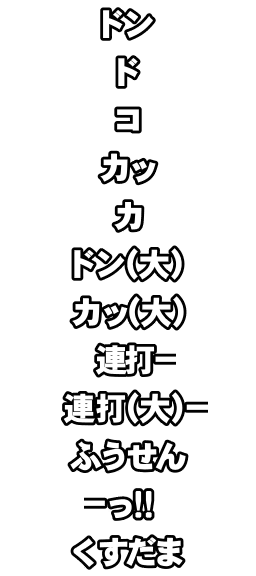
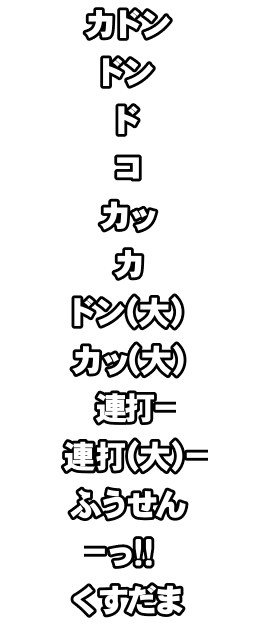
feat(play): sync OurTaikoPlay's Kadon (G) note, TJAParser v0.6.1
From OurTaikoPlay a7b65ab and dc98eda: Kadon judging (both lanes; the other colour within 50 ms judges at the first hit), the input mutex letting that colour through in the same frame, score and gauge counting, big-note effects, autoplay striking don and ka. SyncPlayPresentation.ApplyKadon copies the purple note and the moji カドン and slices them through the sprite data provider; PracticeScene's arrays reach NoteKind.Kadon (16) and NoteMoji.Kadon (12). KadonTests as in OurTaikoPlay, without timing offsets (not recorded here).

Changed region(s): [[0.2188, 0.0, 0.8125, 1.0]]

diff --git a/Assets/OurTaiko/Editor/SyncPlayPresentation.cs b/Assets/OurTaiko/Editor/SyncPlayPresentation.cs
@@ -470,6 +470,70 @@ namespace OurTaiko.Editor
             rect.offsetMin = rect.offsetMax = Vector2.zero;
         }
 
+        // The Kadon (G), OurTaikoPlay a7b65ab and dc98eda: its purple note and the moji カドン. The images
+        // are copied from OurTaikoPlay; the new slices stand where the existing ones leave room, so
+        // none of those move. noteSprites stays indexed by NoteKind (Kadon is 16).
+        [MenuItem("OurTaikoView/Sync Kadon")]
+        public static void ApplyKadon()
+        {
+            if (EditorApplication.isPlaying) throw new InvalidOperationException("Exit Play mode first.");
+            for (int i = 0; i < EditorSceneManager.sceneCount; i++)
+                if (EditorSceneManager.GetSceneAt(i).isDirty) throw new InvalidOperationException("Save current scene edits first.");
+            const string atlas = "Assets/OurTaiko/Art/game/notes/notes_atlas.png", moji = "Assets/OurTaiko/Art/game/notes/moji.png";
+            foreach (string image in new[] { atlas, moji })
+            {
+                FileUtil.ReplaceFile(Path.GetFullPath("../OurTaikoPlay/" + image), image);
+                AssetDatabase.ImportAsset(image, ImportAssetOptions.ForceSynchronousImport);
+            }
+            AddSlice(atlas, "Note16", new Rect(384, 1728, 192, 192));
+            AddSlice(atlas, "Note16Alternate", new Rect(384, 1536, 192, 192));
+            AddSlice(moji, "Moji12", new Rect(0, 576, 256, 48));
+            var notes = AssetDatabase.LoadAllAssetsAtPath(atlas).OfType<Sprite>().ToDictionary(s => s.name);
+            var texts = AssetDatabase.LoadAllAssetsAtPath(moji).OfType<Sprite>().ToDictionary(s => s.name);
+            var setup = EditorSceneManager.GetSceneManagerSetup();
+            try
+            {
+                var scene = EditorSceneManager.OpenScene("Assets/Scenes/PracticeScene.unity");
+                var play = UnityEngine.Object.FindFirstObjectByType<PlayScene>();
+                play.noteSprites = WithSprite(play.noteSprites, (int)NoteKind.Kadon, notes["Note16"]);
+                play.alternateNoteSprites = WithSprite(play.alternateNoteSprites, (int)NoteKind.Kadon, notes["Note16Alternate"]);
+                play.mojiSprites = WithSprite(play.mojiSprites, NoteMoji.Kadon, texts["Moji12"]);
+                EditorUtility.SetDirty(play);
+                EditorSceneManager.MarkSceneDirty(scene);
+                EditorSceneManager.SaveScene(scene);
+                AssetDatabase.SaveAssets();
+            }
+            finally { if (setup.Any(s => s.isLoaded && s.isActive)) EditorSceneManager.RestoreSceneManagerSetup(setup); }
+        }
+
+        // Sets one entry, growing the array with empty entries up to it.
+        static Sprite[] WithSprite(Sprite[] sprites, int index, Sprite sprite)
+        {
+            var grown = new Sprite[Math.Max(sprites.Length, index + 1)];
+            Array.Copy(sprites, grown, sprites.Length);
+            grown[index] = sprite;
+            return grown;
+        }
+
+        // Adds a centred slice unless the sheet has one of that name.
+        static void AddSlice(string path, string name, Rect rect)
+        {
+            var importer = AssetImporter.GetAtPath(path);
+            var factory = new SpriteDataProviderFactories();
+            factory.Init();
+            var provider = factory.GetSpriteEditorDataProviderFromObject(importer);
+            if (provider == null) throw new InvalidOperationException("Sprite data provider unavailable.");
+            provider.InitSpriteEditorDataProvider();
+            var rects = provider.GetSpriteRects();
+            if (rects.Any(r => r.name == name)) return;
+            var slice = new SpriteRect { name = name, rect = rect, alignment = SpriteAlignment.Center, pivot = new Vector2(0.5f, 0.5f), spriteID = GUID.Generate() };
+            provider.SetSpriteRects(rects.Append(slice).ToArray());
+            var names = provider.GetDataProvider<ISpriteNameFileIdDataProvider>();
+            names?.SetNameFileIdPairs(names.GetNameFileIdPairs().Append(new SpriteNameFileIdPair(name, slice.spriteID)).ToArray());
+            provider.Apply();
+            importer.SaveAndReimport();
+        }
+
         static void RemoveDuplicateDifficultySprites()
         {
             var importer = AssetImporter.GetAtPath("Assets/OurTaiko/Art/game/lane/lane_difficulty.png");

diff --git a/Assets/OurTaiko/Runtime/Core/PlaySession.cs b/Assets/OurTaiko/Runtime/Core/PlaySession.cs
@@ -8,6 +8,8 @@ namespace OurTaiko
     public sealed class PlaySession
     {
         public const double GoodWindow = 0.0250250015258789, OkWindow = 0.0750750045776367, BadWindow = 0.108441665649414;
+        // OpenTaiko's BigNotesWaitTime (default 50 ms): a Kadon's second colour must follow the first within it.
+        public const double KadonWait = 0.05;
         public readonly TaikoChart Chart;
         public int KiwamiThreshold => scoring.CeilingScore;
         public double JudgeOffset { get; }
@@ -64,6 +66,10 @@ namespace OurTaiko
         readonly BranchFeed branchFeed = new BranchFeed();
         readonly BranchCounter branchCounter;
         double practiceStart = double.NegativeInfinity;
+        // The Kadon waiting for its second colour (-1 for none), and its first hit.
+        int kadonWaiting = -1;
+        double kadonFirstHit;
+        bool kadonFirstKa;
 
         sealed class TimelineEvent
         {
@@ -300,6 +306,7 @@ namespace OurTaiko
             time -= JudgeOffset;
             // check_note: don and ka are separate lanes, so a press judges the front of
             // its own colour's lane regardless of a pending note of the other colour.
+            // A Kadon (G) is in both lanes.
             int target = NextInLane(ka, 0);
             if (target >= 0 && time > Chart.Notes[target].Time + okWindow)
             {
@@ -310,10 +317,21 @@ namespace OurTaiko
             }
             if (target >= 0)
             {
-                double delta = Math.Abs(Chart.Notes[target].Time - time);
+                // OpenTaiko's swap note: the other colour within KadonWait completes it, judged at the first hit.
+                bool completes = KadonWaits(target, time) && kadonFirstKa != ka;
+                double at = completes ? kadonFirstHit : time;
+                double delta = Math.Abs(Chart.Notes[target].Time - at);
                 if (delta <= badWindow)
                 {
                     Judgment result = delta <= goodWindow ? Judgment.Good : delta <= okWindow ? Judgment.Ok : Judgment.Bad;
+                    if (Chart.Notes[target].IsKadon && !completes && (result != Judgment.Bad || KadonWaits(target, time)))
+                    {
+                        // A good or ok first hit waits; the same colour again is an empty hit. A wait that
+                        // ran out starts over, and the note is missed once its window passes (OpenTaiko).
+                        if (!KadonWaits(target, time)) { kadonWaiting = target; kadonFirstHit = time; kadonFirstKa = ka; }
+                        return Judgment.None;
+                    }
+                    if (kadonWaiting == target) kadonWaiting = -1;
                     Resolve(target, result); return result;
                 }
             }
@@ -321,6 +339,11 @@ namespace OurTaiko
             if (roll >= 0) { HitLong(roll, time + JudgeOffset); return Judgment.Roll; }
             return Judgment.None;
         }
+
+        bool KadonWaits(int i, double time) => kadonWaiting == i && Pending(i) && time - kadonFirstHit < KadonWait;
+
+        // A Kadon waits for this colour: a press of it in the same frame as the first is judged too.
+        public bool AwaitsKadon(bool ka, double time) => kadonWaiting >= 0 && kadonFirstKa != ka && KadonWaits(kadonWaiting, time - JudgeOffset);
 
         bool Pending(int i) => !resolved[i] && IsActive(Chart.Notes[i]);
         bool CanHitLong(int i, bool ka, double time)
@@ -344,7 +367,7 @@ namespace OurTaiko
             return -1;
         }
 
-        // Earliest pending don (ka = false) or ka note from index start; big notes share the lane.
+        // Earliest pending don (ka = false) or ka note from index start; big notes share the lane, Kadon both.
         int NextInLane(bool ka, int start)
         {
             if (timeSorted)
@@ -356,7 +379,7 @@ namespace OurTaiko
                 if (IsLaneNote(i, ka)) return i;
             return -1;
         }
-        bool IsLaneNote(int i, bool ka) => Pending(i) && !Chart.Notes[i].IsLong && Chart.Notes[i].IsKa == ka;
+        bool IsLaneNote(int i, bool ka) => Pending(i) && !Chart.Notes[i].IsLong && (Chart.Notes[i].IsKa == ka || Chart.Notes[i].IsKadon);
 
         bool PendingBetween(int first, int last)
         {

diff --git a/Assets/OurTaiko/Runtime/Play/PlayerLane.cs b/Assets/OurTaiko/Runtime/Play/PlayerLane.cs
@@ -132,16 +132,19 @@ namespace OurTaiko
             if (renderer.Render(Session, time, preview, hideSkipped) && Views.gogo != null) Views.gogo.ShowTime(Session, time, preview);
         }
 
-        // Input mutex: a frame judges only this seat's earliest drum press; later ones in the same frame are dropped.
+        // Input mutex: a frame judges only this seat's earliest drum press; later ones in the same frame are
+        // dropped, except one of the other colour when the first left a Kadon waiting for it.
         void HitFirstDrumPress()
         {
-            bool judged = false;
+            bool first = true, second = false;
             foreach (var press in Input.PressesThisFrame)
             {
                 bool wasHeard = Forget(press);
-                if (judged) continue;
-                judged = true;
-                Hit(press.Key.IsKa(), press.Key.IsRight(), !wasHeard);
+                bool ka = press.Key.IsKa();
+                if (first) first = false;
+                else if (second || Session == null || !Session.AwaitsKadon(ka, ChartTime)) continue;
+                else second = true;
+                Hit(ka, press.Key.IsRight(), !wasHeard);
             }
         }
         // The drum sound does not wait for the input delay: a press that will be judged is heard in the
@@ -205,14 +208,17 @@ namespace OurTaiko
                 v.soulGauge.SetPoints(Session.GaugePoints, ChartTime);
             if (AutoPlay)
             {
-                // Alternate actual strikes, including every hit within the same long note.
-                PlayDrum(Session.Chart.Notes[index].IsKa);
-                Feedback(Session.Chart.Notes[index].IsKa, nextAutoRight);
+                // Alternate actual strikes, including every hit within the same long note. A Kadon
+                // strikes don and ka together with opposite hands.
+                var struck = Session.Chart.Notes[index];
+                PlayDrum(struck.IsKa);
+                Feedback(struck.IsKa, nextAutoRight);
+                if (struck.IsKadon) { PlayDrum(true); Feedback(true, !nextAutoRight); }
                 nextAutoRight = !nextAutoRight;
             }
             SpawnArc(index, result);
             var judged = Session.Chart.Notes[index];
-            bool big = judged.IsBigNote;
+            bool big = judged.IsBigNote || judged.IsKadon;
             double judgedAt = ChartTime;
             v.hitFace.Play(result, big, judgedAt);
             v.hitRing.Play(result, big, judgedAt);
@@ -238,7 +244,7 @@ namespace OurTaiko
             UpdateHud();
         }
 
-        // Good/ok notes 1-4 fly as themselves; popped balloons fly as big don. Roll hits use the roll's size
+        // Good/ok notes 1-4 and Kadon fly as themselves; popped balloons fly as big don. Roll hits use the roll's size
         // and the struck drum's colour (autoplay rolls with don). Kusudama never flies.
         void SpawnArc(int index, Judgment result)
         {
@@ -256,7 +262,7 @@ namespace OurTaiko
                 kind = hitKa && !AutoPlay ? NoteKind.BigKa : NoteKind.BigDon;
             else kind = hitKa && !AutoPlay ? NoteKind.Ka : NoteKind.Don;
             // NoteArc's is_big picks the gauge burst's circle; popped balloons fly as big don.
-            bool big = kind == NoteKind.BigDon || kind == NoteKind.BigKa;
+            bool big = kind == NoteKind.BigDon || kind == NoteKind.BigKa || kind == NoteKind.Kadon;
             // The note leaves the judge where #JPOSSCROLL has it now (user request; OpenTaiko's
             // FlyingNotes start from the fixed skin point).
             var shift = JudgeShift.At(Session.Chart.JudgeMoves, ChartTime);

diff --git a/Assets/OurTaiko/Tests/EditMode/KadonTests.cs b/Assets/OurTaiko/Tests/EditMode/KadonTests.cs
@@ -1,0 +1,67 @@
+using NUnit.Framework;
+
+namespace OurTaiko.Tests
+{
+    // The Kadon (G), as OpenTaiko judges its swap note: both colours within PlaySession.KadonWait, in
+    // either order, judged at the first hit; a single hit is not enough.
+    public sealed class KadonTests
+    {
+        static PlaySession Session(string body) => new PlaySession(TjaParser.Parse("TITLE:Test\nBPM:120\nCOURSE:Oni\n#START\n" + body + "\n#END"));
+
+        [Test] public void BothColoursInEitherOrderJudgeAtTheFirstHit()
+        {
+            var donFirst = Session("G000,");
+            Assert.That(donFirst.Hit(false, 0.01), Is.EqualTo(Judgment.None));
+            Assert.That(donFirst.AwaitsKadon(true, 0.02), Is.True);
+            Assert.That(donFirst.AwaitsKadon(false, 0.02), Is.False);
+            // 30 ms after the note would be 可; the first hit at 10 ms makes it 良.
+            Assert.That(donFirst.Hit(true, 0.03), Is.EqualTo(Judgment.Good));
+            Assert.That(donFirst.Combo, Is.EqualTo(1));
+
+            var kaFirst = Session("G000,");
+            Assert.That(kaFirst.Hit(true, -0.04), Is.EqualTo(Judgment.None));
+            Assert.That(kaFirst.Hit(false, -0.01), Is.EqualTo(Judgment.Ok));
+        }
+
+        [Test] public void OneColourAloneIsMissed()
+        {
+            var single = Session("G000,");
+            Assert.That(single.Hit(false, 0), Is.EqualTo(Judgment.None));
+            single.Advance(0.5, false);
+            Assert.That(single.Bad, Is.EqualTo(1));
+            Assert.That(single.Missed[0], Is.True);
+
+            // The same colour again inside the wait is an empty hit.
+            var twice = Session("G000,");
+            Assert.That(twice.Hit(false, 0), Is.EqualTo(Judgment.None));
+            Assert.That(twice.Hit(false, 0.01), Is.EqualTo(Judgment.None));
+            Assert.That(twice.Resolved[0], Is.False);
+        }
+
+        [Test] public void AWaitThatRunsOutStartsOver()
+        {
+            var session = Session("G000,");
+            Assert.That(session.Hit(false, 0), Is.EqualTo(Judgment.None));
+            // 60 ms later the wait is over: this ka starts a new one instead of completing.
+            Assert.That(session.Hit(true, 0.06), Is.EqualTo(Judgment.None));
+            Assert.That(session.Resolved[0], Is.False);
+            Assert.That(session.Hit(false, 0.07), Is.EqualTo(Judgment.Ok));
+        }
+
+        [Test] public void ABadFirstHitIsJudgedAtOnce()
+        {
+            var session = Session("G000,");
+            Assert.That(session.Hit(true, 0.09), Is.EqualTo(Judgment.Bad));
+            Assert.That(session.Resolved[0], Is.True);
+        }
+
+        [Test] public void ItCountsForScoreAndAutoplayHitsIt()
+        {
+            var chart = TjaParser.Parse("TITLE:Test\nBPM:120\nCOURSE:Oni\n#START\n1G2G,\n#END");
+            Assert.That(new ChartStatistics(chart).JudgeableNotes, Is.EqualTo(4));
+            var session = new PlaySession(chart);
+            session.Advance(2, true);
+            Assert.That(session.Good, Is.EqualTo(4));
+        }
+    }
+}

diff --git a/Assets/OurTaiko/Runtime/Core/ChartStatistics.cs b/Assets/OurTaiko/Runtime/Core/ChartStatistics.cs
@@ -28,12 +28,15 @@ namespace OurTaiko
                 {
                     // A branch without #M counts the route drawn in its place.
                     if (note.BranchId != branchId || (branchId >= 0 && note.Route != chart.Branches[branchId].ResolveRoute(BranchRoute.Master))) continue;
-                    if (note.Kind >= NoteKind.Don && note.Kind <= NoteKind.BigKa) judgeableNotes++;
+                    if (IsJudgeable(note)) judgeableNotes++;
                     else if (note.IsBalloon) balloonHitBudget += Math.Min(100, note.BalloonHits);
                     else if (note.IsDrumroll)
                         drumrollMilliseconds += (note.EndTime - note.Time) * 1000;
                 }
             }
         }
+
+        // Notes 1–4 and the Kadon (G): judged 良/可/不可 and counted for score and gauge.
+        static bool IsJudgeable(ChartNote note) => note.Kind >= NoteKind.Don && note.Kind <= NoteKind.BigKa || note.IsKadon;
     }
 }
